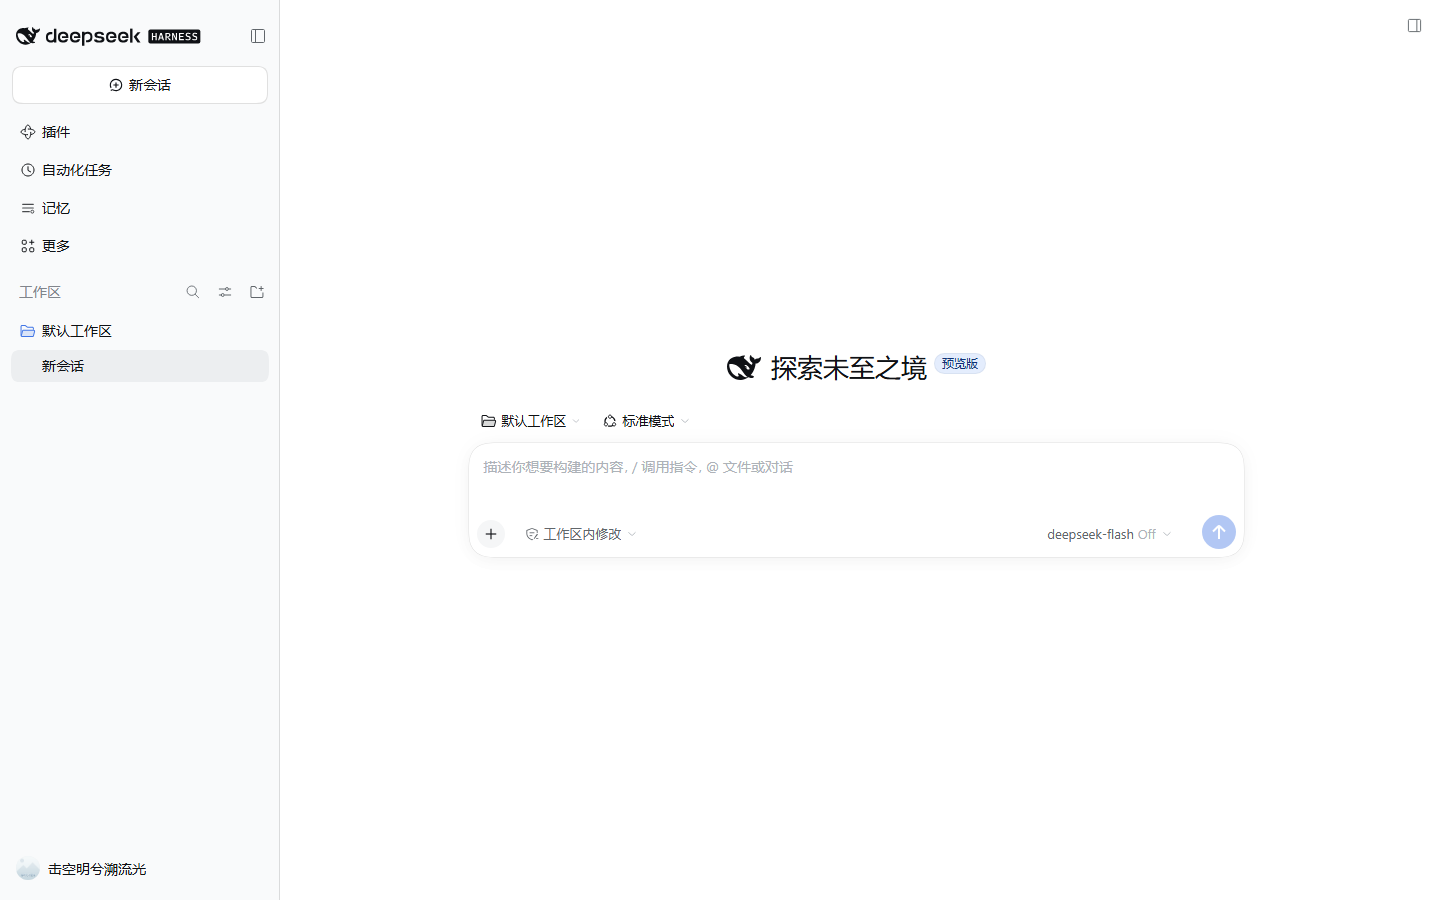
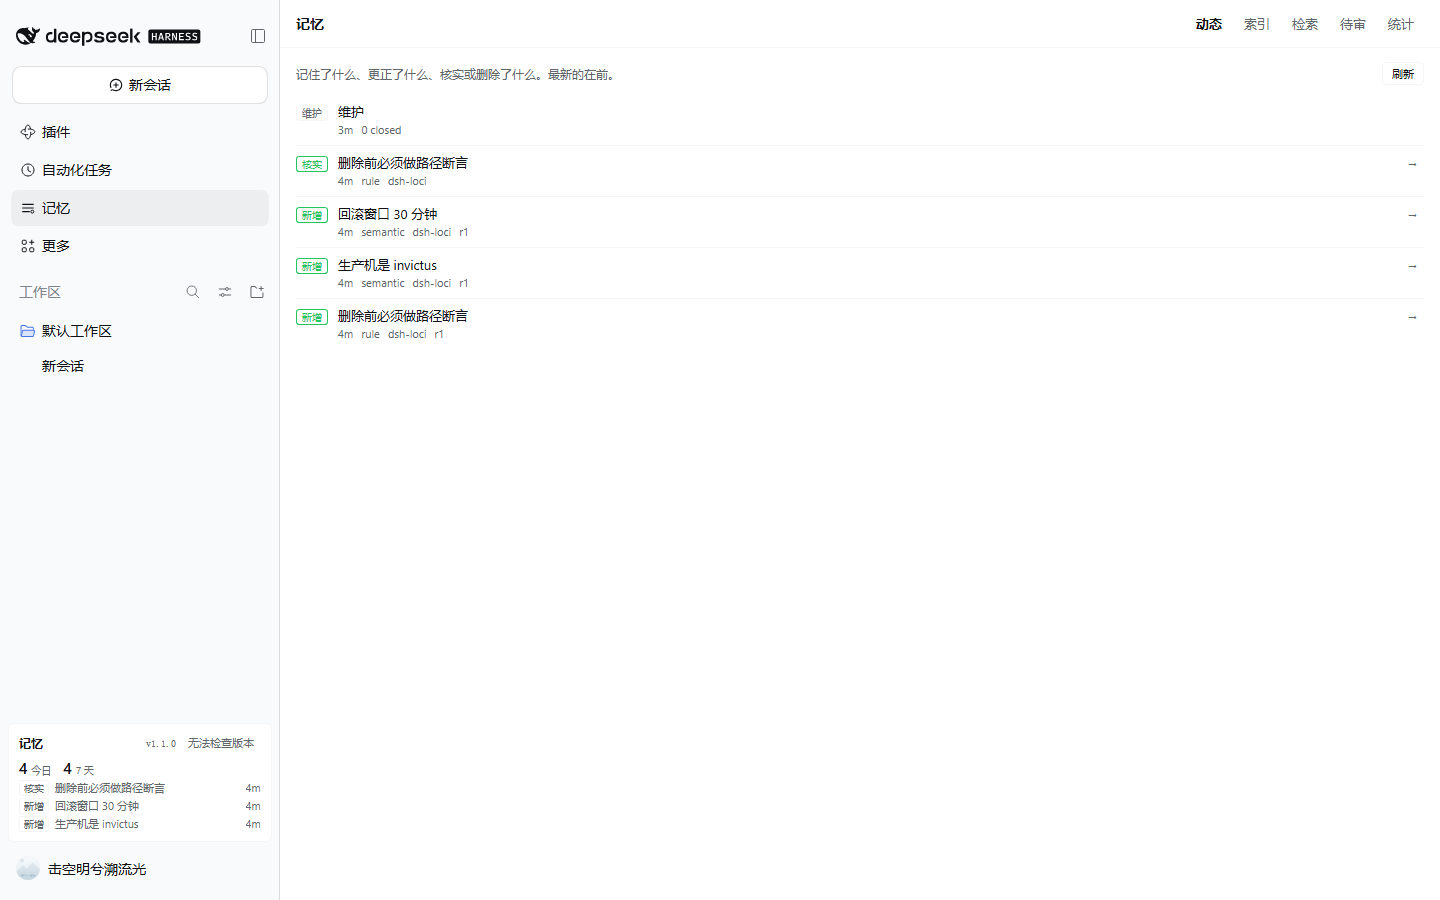
polish(ui): clearer card counters, deduped lines, 3-way search contract
- 'this week' instead of a bare 7d, 'not on npm yet' when the registry 404s
- one card line per entry (added-then-verified is one piece of news)
- maintenance rows describe what the pass did instead of repeating the tag
- loci_search now distinguishes found / nothing-matched / failed, and says when
  the ranked window was bounded instead of implying the answer is complete

diff --git a/src/host/tools/tools.js b/src/host/tools/tools.js
@@ -413,24 +413,45 @@ function renderWrite(value) {
   return lines.join('\n');
 }
 
+/**
+ * Render a search result.
+ *
+ * The three-way contract matters more than the formatting: a caller must be able
+ * to tell **found**, **nothing matched**, and **the search failed** apart without
+ * guessing. Reporting an empty result as a failure teaches the model to retry
+ * forever; reporting a failure as "nothing found" teaches it to invent.
+ */
 function renderSearch(value) {
-  if (value?.error !== undefined) return `search failed: ${value.error}`;
+  if (value?.error !== undefined) {
+    return `search failed: ${value.error}\nNothing was returned, so do not conclude the memory is empty.`;
+  }
   const lines = [
     `total=${value.total} returned=${value.returned} hasMore=${value.hasMore}${value.cursor ? ` cursor=${value.cursor}` : ''}`,
   ];
-  if (value.hits.length === 0) lines.push('no match');
+  if (value.hits.length === 0) {
+    lines.push('No relevant memory found for this query.');
+    return lines.join('\n');
+  }
   value.hits.forEach((hit, index) => {
     lines.push(`${index + 1}. ${renderEntryLine(hit)} [${hit.channels.join(',')}]`);
     const snippet = String(hit.snippet ?? '').trim();
     if (snippet.length > 0) lines.push(`   ${renderSafe(snippet.replace(/\s+/g, ' ')).slice(0, 400)}`);
   });
   if (value.hasMore) lines.push('next page: call loci_search again with the cursor above');
+  // Never let a bounded window look like a complete answer.
+  if (value.partial === true) {
+    lines.push(
+      `note: more than ${value.returned} entries match; the ranking covers a bounded window, so narrow the query (or add tags/kinds) to see the rest reliably`,
+    );
+  }
   return lines.join('\n');
 }
 
 function renderGet(value) {
   const entry = value?.entry;
-  if (entry === undefined) return 'not found';
+  if (entry === undefined) {
+    return 'No memory with that id. It may have been purged, or the id was mistyped — use loci_search to find it.';
+  }
   const lines = [
     `${entry.id}@${entry.revision} · ${entry.kind} · ${entry.status} · ${entry.scope}:${entry.scopeLabel}`,
     `title: ${renderSafe(entry.title)}`,

diff --git a/client.js b/client.js
@@ -37,7 +37,7 @@ window.__ModuleLoader__.load({
       'card.empty': 'Nothing learned yet',
       'card.emptyHint': 'Facts you confirm appear here',
       'card.today': 'today',
-      'card.week': '7d',
+      'card.week': 'this week',
       'card.pending': 'to review',
       'card.open': 'Open memory',
       'card.check': 'Check for updates',
@@ -45,6 +45,7 @@ window.__ModuleLoader__.load({
       'card.updateTo': 'Update available',
       'card.checking': 'Checking…',
       'card.unknown': 'Version check unavailable',
+      'card.unpublished': 'Not on npm yet',
 
       'action.added': 'added',
       'action.revised': 'revised',
@@ -127,7 +128,7 @@ window.__ModuleLoader__.load({
       'card.empty': '还没有学到东西',
       'card.emptyHint': '确认过的事实会出现在这里',
       'card.today': '今日',
-      'card.week': '7 天',
+      'card.week': '本周',
       'card.pending': '待审',
       'card.open': '打开记忆',
       'card.check': '检查更新',
@@ -135,6 +136,7 @@ window.__ModuleLoader__.load({
       'card.updateTo': '有新版本',
       'card.checking': '检查中…',
       'card.unknown': '无法检查版本',
+      'card.unpublished': '尚未发布',
 
       'action.added': '新增',
       'action.revised': '更正',
@@ -441,7 +443,18 @@ window.__ModuleLoader__.load({
 
       const data = activity.data;
       const digest = data?.digest;
-      const shown = (data?.items ?? []).filter((item) => item.action !== 'maintained').slice(0, 3);
+      // One line per entry: a fact that was added and then verified in the same
+      // minute is one piece of news, not two.
+      const seen = new Set();
+      const shown = (data?.items ?? [])
+        .filter((item) => item.action !== 'maintained')
+        .filter((item) => {
+          const key = item.id ?? `${item.action}-${item.ts}`;
+          if (seen.has(key)) return false;
+          seen.add(key);
+          return true;
+        })
+        .slice(0, 3);
       const pending = props?.pending ?? undefined;
 
       if (!wide) {

diff --git a/src/host/update.js b/src/host/update.js
@@ -67,6 +67,7 @@ export class UpdateChecker {
     this.cachedAt = 0;
     this.inFlight = null;
     this.lastError = null;
+    this.unpublished = false;
   }
 
   /** The installed version, with no I/O. */
@@ -91,7 +92,7 @@ export class UpdateChecker {
           latestVersion,
           updateAvailable,
           checkedAt: this.now(),
-          status: latestVersion === null ? 'unavailable' : 'ok',
+          status: latestVersion === null ? (this.unpublished === true ? 'unpublished' : 'unavailable') : 'ok',
           ...(this.lastError === null ? {} : { error: this.lastError }),
         };
         this.cachedAt = this.now();
@@ -120,6 +121,7 @@ export class UpdateChecker {
       }
       const payload = await response.json();
       const version = typeof payload?.version === 'string' ? payload.version : null;
+      this.unpublished = false;
       if (version === null) {
         this.lastError = 'registry answer has no version';
         return null;

diff --git a/src/host/store/activity.js b/src/host/store/activity.js
@@ -125,6 +125,16 @@ function normalize(event, row, title) {
       return {
         ...base,
         action: 'maintained',
+        // The panel renders the tag as the action name, so the title has to say
+        // something different: what the pass actually did.
+        title:
+          [
+            Number(event.expiredWorking) > 0 ? `${Number(event.expiredWorking)} expired` : null,
+            Number(event.closedCandidates) > 0 ? `${Number(event.closedCandidates)} closed` : null,
+            event.reindexed === true ? 'index rebuilt' : null,
+          ]
+            .filter(Boolean)
+            .join(' · ') || 'nothing to do',
         detail: {
           expiredWorking: Number(event.expiredWorking) || 0,
           closedCandidates: Number(event.closedCandidates) || 0,
